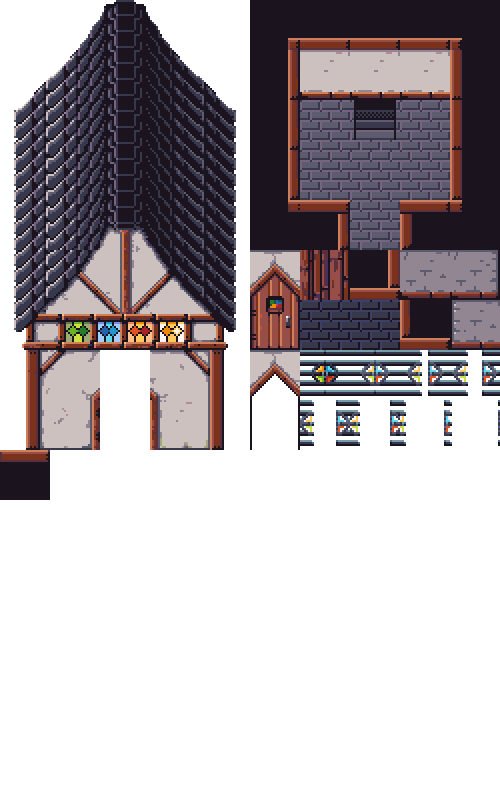
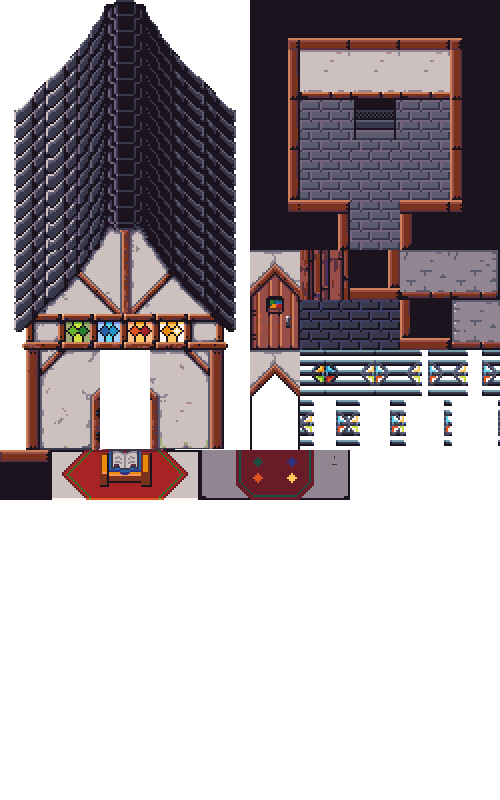
Added an Altar

Changed region(s): [[0.09, 0.5625, 0.72, 0.625]]

diff --git a/js/daggerAssets.js b/js/daggerAssets.js
@@ -1606,6 +1606,12 @@ const daggerAssets = [
         {tag: "CHURCH_DOOR_B_OPEN",              cls: "Sprite", width: 50, height: 50, xoffset: 50*5, yoffset: 50*8, },
         // -- row 10
         {tag: "STUCCO_WALL_B",          id: 620, cls: "Sprite", width: 50, height: 50, xoffset: 50*0, yoffset: 50*9, tileset: true },
+        {tag: "CHURCH_ALTAR_A",          id: 621, cls: "Sprite", width: 50, height: 50, xoffset: 50*1, yoffset: 50*9, tileset: true },
+        {tag: "CHURCH_ALTAR_B",          id: 622, cls: "Sprite", width: 50, height: 50, xoffset: 50*2, yoffset: 50*9, tileset: true },
+        {tag: "CHURCH_ALTAR_C",          id: 623, cls: "Sprite", width: 50, height: 50, xoffset: 50*3, yoffset: 50*9, tileset: true },
+        {tag: "CHURCH_ALTAR_D",          id: 624, cls: "Sprite", width: 50, height: 50, xoffset: 50*4, yoffset: 50*9, tileset: true },
+        {tag: "CHURCH_ALTAR_E",          id: 625, cls: "Sprite", width: 50, height: 50, xoffset: 50*5, yoffset: 50*9, tileset: true },
+        {tag: "CHURCH_ALTAR_F",          id: 626, cls: "Sprite", width: 50, height: 50, xoffset: 50*6, yoffset: 50*9, tileset: true },
 
 
     ]},

diff --git a/js/WorldGen.js b/js/WorldGen.js
@@ -764,8 +764,8 @@ var churchSpec = {
     fg: [
         531,532,532,532,532,532,533,
         541,  0,  0,  0,  0,  0,543,
-        541,  0,  0,  0,  0,  0,543,
-        541,  0,  0,  0,  0,  0,543,
+        541,  0,621,622,623,  0,543,
+        541,  0,624,625,626,  0,543,
         541,  0,  0,  0,  0,  0,543,
         541,  0,  0,  0,  0,  0,543,
         541,  0,  0,  0,  0,  0,543,
